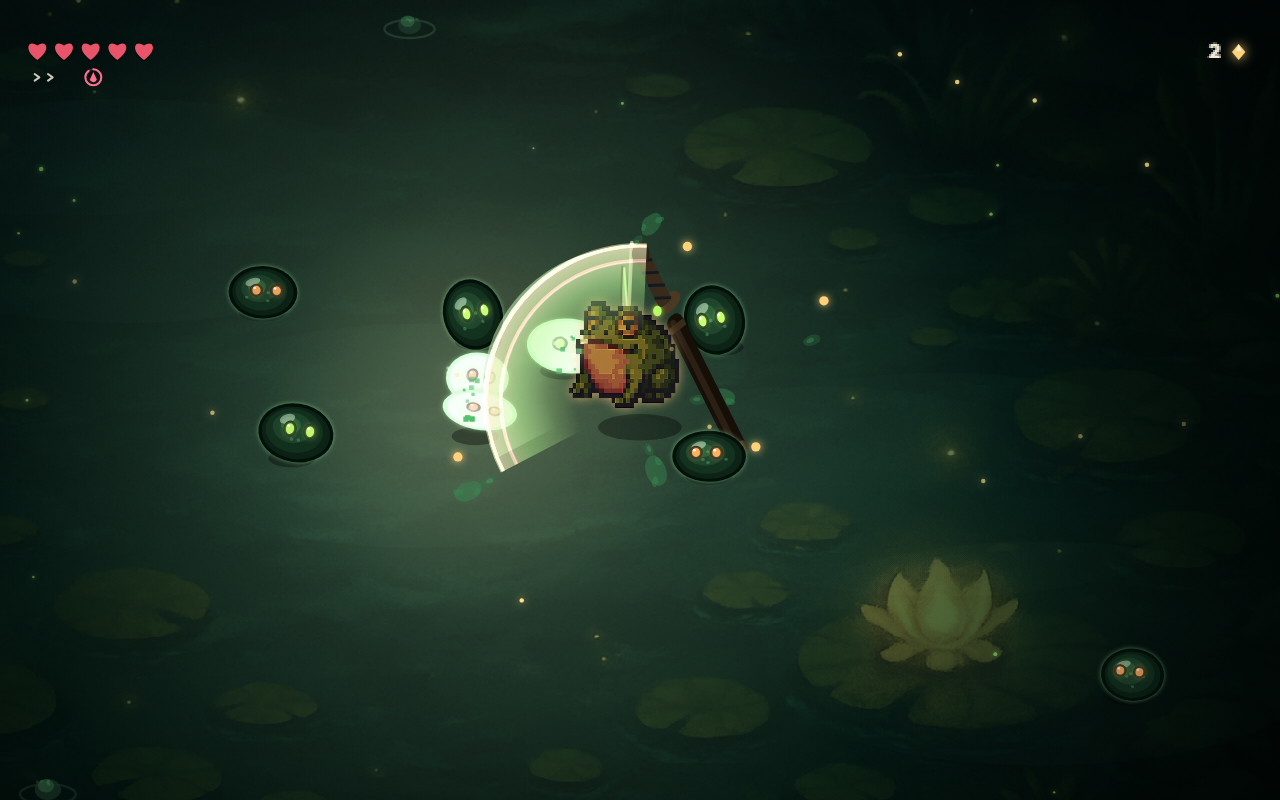
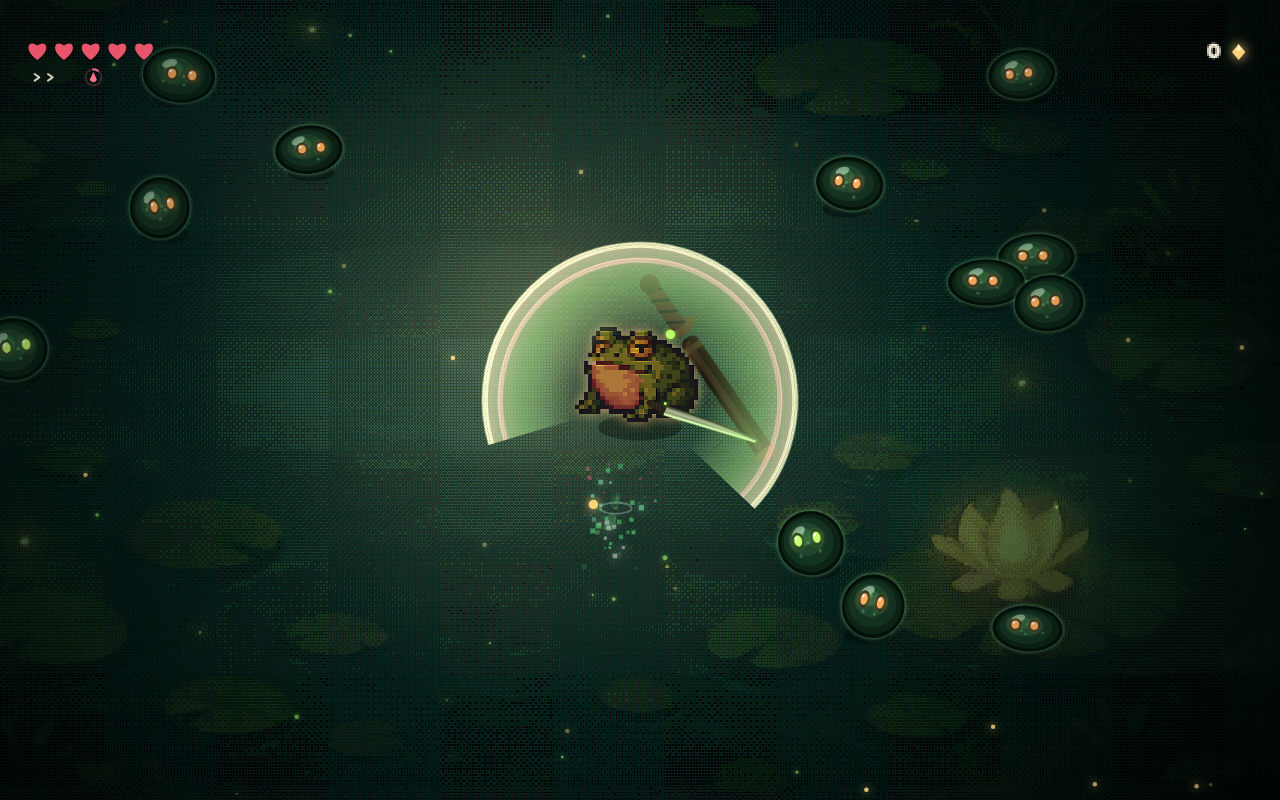
render: posterize+dither the backdrop into the sprites' pixel language
Resolves the soft-painterly-vs-hard-pixel clash all three blind judges flagged, the
way the density knob couldn't: a modest down-res + colour posterize + ordered (Bayer
4x4) dither bakes hard colour steps and a pixel grain into the painted pond so it reads
in the same visual language as the pixel hero/enemies. Also enforces REFERENCE_PACK v2
ART LAW ('low pixel density, heavy dithering; glow in small clusters, not soft blur')
that the smooth airbrushed backdrop had violated. Tunable: BACKDROP_LEVELS / BACKDROP_PIXEL
(LEVELS=0 restores the smooth original).

diff --git a/src/render/render.ts b/src/render/render.ts
@@ -106,17 +106,39 @@ let pixBackdropF = -1;
 // clash is render-STYLE (soft-painterly backdrop vs hard-pixel sprites), not grain size — only a true
 // pixel-art repaint of the backdrop resolves it (a call on the signed painterly-pixel hybrid). So this
 // defaults to 1 (smooth); __bpx keeps the QA knob live for that future decision.
-const BACKDROP_PIXEL = 1;
+// The density round proved down-res alone can't unify the SOFT painterly backdrop with the HARD
+// pixel hero — the clash is edge/colour HARDNESS, not grain. So stylize the backdrop into pixel-art
+// terms: a modest down-res + colour POSTERIZE + ordered (Bayer 4x4) DITHER bakes hard colour steps
+// and a pixel-grain into the painting so it reads in the same visual language as the sprites, while
+// keeping the composition/lotus/pads. Reversible: BACKDROP_LEVELS=0 disables (pure smooth original).
+const BACKDROP_PIXEL = 1.6;   // slight down-res so the dither reads as chunky pixels
+const BACKDROP_LEVELS = 6;    // posterize levels/channel (fewer = harder steps); 0 = off (smooth)
 function getPixBackdrop(bd: HTMLImageElement): HTMLCanvasElement {
-  // __bpx is a QA override so the candidate-compare probe can sweep densities live (1 = smooth original)
+  // __bpx is a QA override so the candidate-compare probe can sweep densities live (1 = full res)
   const f = Math.max(1, (window as any).__bpx ?? BACKDROP_PIXEL);
   if (pixBackdrop && pixBackdropF === f) return pixBackdrop;
   pixBackdropF = f;
+  const w = Math.round(ARENA_W / f), h = Math.round(ARENA_H / f);
   const c = document.createElement('canvas');
-  c.width = Math.round(ARENA_W / f); c.height = Math.round(ARENA_H / f);
+  c.width = w; c.height = h;
   const g = c.getContext('2d')!;
-  g.imageSmoothingEnabled = true;    // smooth downscale -> clean solid pixel blocks
-  g.drawImage(bd, 0, 0, c.width, c.height);
+  g.imageSmoothingEnabled = true;
+  g.drawImage(bd, 0, 0, w, h);
+  if (BACKDROP_LEVELS >= 2) {
+    // ordered dither + posterize -> hard pixel-art colour steps that match the sprite hardness
+    const bayer = [0, 8, 2, 10, 12, 4, 14, 6, 3, 11, 1, 9, 15, 7, 13, 5];
+    const step = 255 / (BACKDROP_LEVELS - 1);
+    const im = g.getImageData(0, 0, w, h); const d = im.data;
+    for (let y = 0; y < h; y++) for (let x = 0; x < w; x++) {
+      const i = (y * w + x) * 4;
+      const t = (bayer[(y & 3) * 4 + (x & 3)] / 16 - 0.5) * step;   // dither threshold offset
+      for (let k = 0; k < 3; k++) {
+        const v = Math.round((d[i + k] + t) / step) * step;
+        d[i + k] = v < 0 ? 0 : v > 255 ? 255 : v;
+      }
+    }
+    g.putImageData(im, 0, 0);
+  }
   pixBackdrop = c;
   return pixBackdrop;
 }
